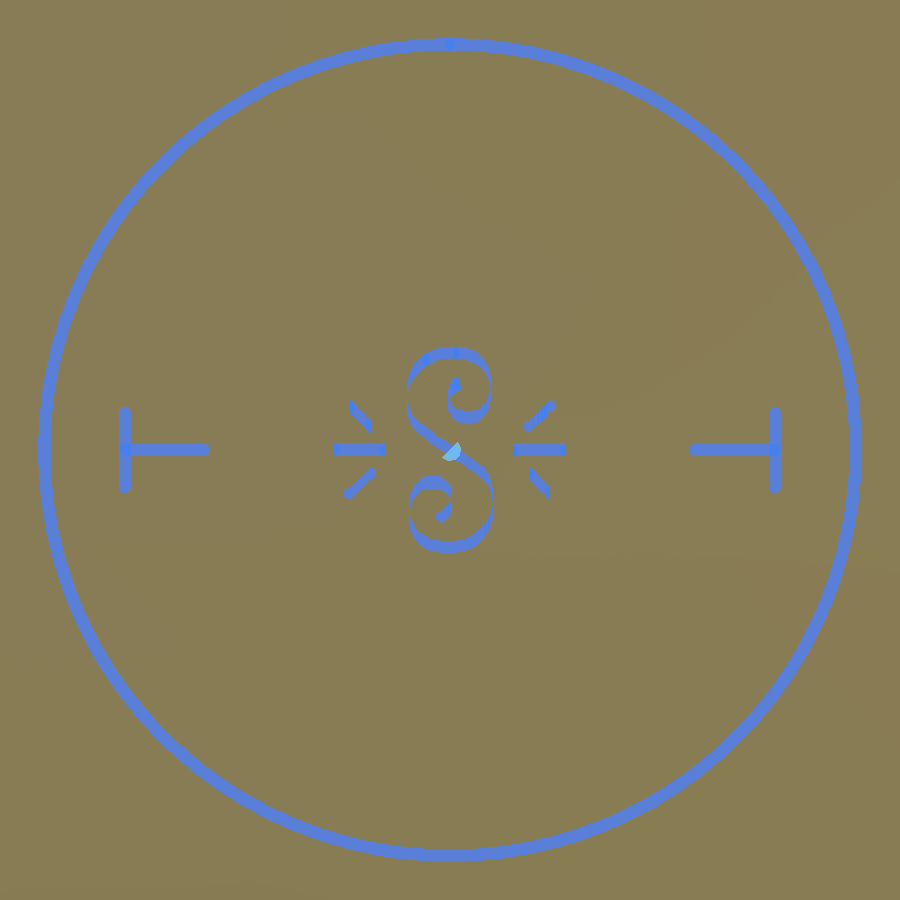
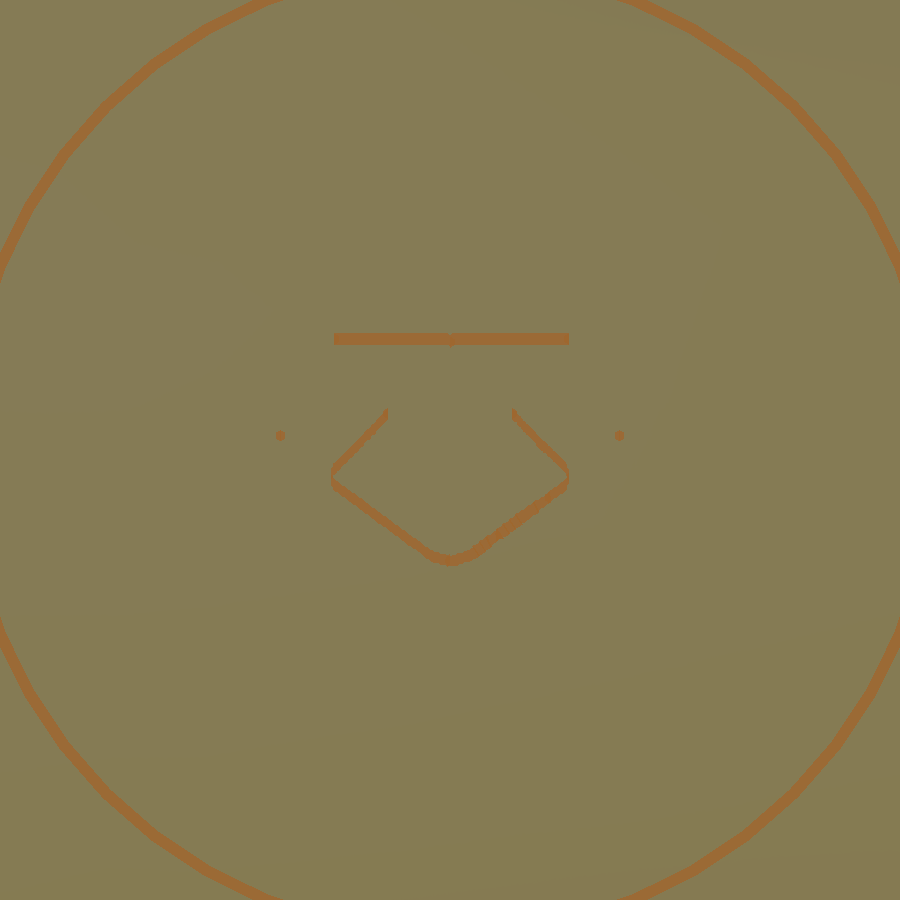
UI: pista de marcadores y notas legibles por ambas caras (UI-02, UI-04)

diff --git a/Assets/_Project/Scripts/World/FloatingNote.cs b/Assets/_Project/Scripts/World/FloatingNote.cs
@@ -1,4 +1,5 @@
 using UnityEngine;
+using TMPro;
 
 namespace SpellSimulator.World
 {
@@ -26,6 +27,14 @@ namespace SpellSimulator.World
             body.useGravity = false;
             home = transform.position;
             homeRotation = transform.rotation;
+            TextMeshPro front = GetComponentInChildren<TextMeshPro>();
+            if (front != null && transform.Find("LabelBack") == null)
+            {
+                TextMeshPro back = Instantiate(front, front.transform.parent);
+                back.name = "LabelBack";
+                back.transform.localPosition = new Vector3(0f, 0f, 0.014f);
+                back.transform.localRotation = Quaternion.Euler(0f, 180f, 0f);
+            }
             // Cada nota arranca en otro punto del vaiven.
             phase = (home.x * 1.7f + home.z * 2.3f) % 6.2831853f;
         }

diff --git a/Assets/_Project/Scripts/Player/PlayerInteractor.Hints.cs b/Assets/_Project/Scripts/Player/PlayerInteractor.Hints.cs
@@ -69,6 +69,8 @@ namespace SpellSimulator.Player
             if (manipulable != null) return manipulable.HelpText ?? "";
             if (hoveredPressable != null)
             {
+                if (hoveredPressable is World.Map.MapZoneMarker)
+                    return viewPanel != null ? "Clic: Resaltar | Tab: Vista completa" : "Clic: Resaltar";
                 if (hoveredPressable.PressWithClick) return viewPanel != null ? HoverHintTable[2] : "";
                 // Se rearma si cambia lo mirado o su texto (puerta: Abrir/Cerrar). Los textos son constantes cacheadas:
                 // comparar referencias no aloca.

diff --git a/Docs/CHANGELOG.md b/Docs/CHANGELOG.md
@@ -5,6 +5,13 @@ tags: [doc, changelog]
 
 Entradas más nuevas arriba. Una por tarea/commit relevante: fecha, qué, por qué, docs tocadas.
 
+## 2026-11-23 — Agua, pilas de lienzos, DisplayStock y UI menores (FIS-06, FIS-07, MAP-06, MAP-07, UI-02, UI-04)
+
+- **FIS-06**: `WaterMath.EffectiveBuoyancy`: sin perfil de material, los cuerpos pesados (> `MaxFloatMass`) se hunden en el lago. **FIS-07**: el hechizo sobre el agua también prueba el punto donde su dirección corta la superficie (`RaycastHorizontalPlane`). Dos tests nuevos.
+- **MAP-06** `CanvasPile`: enfriamiento (`refillDelay` 1 s) antes de reponer el lienzo. **MAP-07** `DisplayStock`: sin lambdas ni allocations al limpiar sueltos.
+- **UI-02** pista "Clic: Resaltar" en marcadores de zona; **UI-04** `FloatingNote` duplica el texto en el reverso.
+- Pospuestos: FIS-04, MAP-08, UI-05/06/07 (requieren escena/asset o rediseño). Tests 692/692; sin probar a mano.
+
 ## 2026-11-23 — Shaders: quemado en muros y culling de ondas de agua (VFX-03, VFX-05)
 
 - **VFX-03** `BurntGround.hlsl`: `ApplyBurntGround` recibe la normal y funde el quemado a 0 en superficies verticales (`smoothstep` 0,3-0,6 sobre `abs(normalWS.y)`); sin texturas nuevas. Suelos horizontales idénticos.

diff --git a/Docs/AUDIT/briefs/13_ui_menores.md b/Docs/AUDIT/briefs/13_ui_menores.md
@@ -1,0 +1,5 @@
+# Brief 13: UI, tareas menores (UI-01, UI-02, UI-04, UI-05, UI-06, UI-07)
+Proyecto: SpellSimulator (Unity 6 URP, PC y Quest). Lee `CLAUDE.md` y `Docs/CODESTYLE.md`. Solo editás scripts C# (y tests) dentro de `Assets/_Project/`. Nunca `.meta`, `.unity`, `.prefab`, `.asset`, `.mat`. No podés compilar: código conservador. Cero allocations en Update/FixedUpdate/LateUpdate. No hagas commits. Lógica pura nueva: función estática + test EditMode en `Assets/_Project/Tests/EditMode/`.
+Leé esas secciones de `Docs/AUDIT/01_mapa_ui.md` y verificá en el código real. Aplicá lo más simple y seguro: UI-01/02 hints y marcadores en VR (quitar "Tab: Vista completa" en VR, acciones tapadas), UI-04 FloatingNote legible por ambas caras, UI-05/06 solo si es código (elipsis de fuente, modal del tutorial en VR: si exige tocar prefab/asset o fuente, no lo hagas y explicá), UI-07 polling de tinta en HUD. Textos en español. Los controles se repiten en `Learning/GrimoireTexts.cs`, `PlayerInputReader` y `Docs/GAME_DESIGN.md`: si cambiás un texto de control, avisá.
+## Devolvé (≤5 líneas)
+Por hallazgo: hecho / no aplica / pospuesto, y archivos tocados.

diff --git a/Docs/AUDIT/briefs/11_agua_resto.md b/Docs/AUDIT/briefs/11_agua_resto.md
@@ -1,0 +1,6 @@
+# Brief 11: agua e inundación restantes (FIS-04, FIS-06, FIS-07)
+Proyecto: SpellSimulator (Unity 6 URP, PC y Quest). Lee `CLAUDE.md` y `Docs/CODESTYLE.md`. Solo editás scripts C# (y tests) dentro de `Assets/_Project/`. Nunca `.meta`, `.unity`, `.prefab`, `.asset`, `.mat`. No podés compilar: código conservador. Cero allocations en Update/FixedUpdate/LateUpdate. No hagas commits. Lógica pura nueva: función estática + test EditMode en `Assets/_Project/Tests/EditMode/`.
+Archivos permitidos: los de agua/inundación (`WaterVolume.cs`, `FloodZone.cs`, `WaterMath.cs`, `WaterEffects.cs` solo si hace falta) y sus tests.
+Leé las secciones FIS-04, FIS-06 y FIS-07 de `Docs/AUDIT/03_fisicas.md`, verificá cada una en el código real y aplicá la alternativa más simple y segura. Si no es un bug real o implica comportamiento distinto, no lo cambies y explicá. FIS-03 ya está arreglado (contador de colliders por cuerpo): no lo rehagas.
+## Devolvé (≤5 líneas)
+Por hallazgo: arreglado / no era bug / pospuesto, y archivos tocados.

diff --git a/Docs/AUDIT/briefs/12_mapa_menores.md b/Docs/AUDIT/briefs/12_mapa_menores.md
@@ -1,0 +1,5 @@
+# Brief 12: mapa, tareas menores (MAP-06, MAP-07, MAP-08)
+Proyecto: SpellSimulator (Unity 6 URP, PC y Quest). Lee `CLAUDE.md` y `Docs/CODESTYLE.md`. Solo editás scripts C# (y tests) dentro de `Assets/_Project/`. Nunca `.meta`, `.unity`, `.prefab`, `.asset`, `.mat`. No podés compilar: código conservador. Cero allocations en Update/FixedUpdate/LateUpdate. No hagas commits. Lógica pura nueva: función estática + test EditMode en `Assets/_Project/Tests/EditMode/`.
+Leé las secciones MAP-06 (CanvasPile: cooldown y tope en escena con reciclado), MAP-07 (allocations en DisplayStock) y MAP-08 (sitios fijos de peñasco/cabaña) de `Docs/AUDIT/01_mapa_ui.md`. Verificá en el código real. MAP-06 y MAP-07 son código: aplicá la alternativa más simple. MAP-08 si implica tocar escena o datos (`MapLayout`/`MapOverrides.json`), NO lo hagas: explicá qué habría que cambiar.
+## Devolvé (≤5 líneas)
+Por hallazgo: hecho / no aplica / pospuesto, y archivos tocados.
